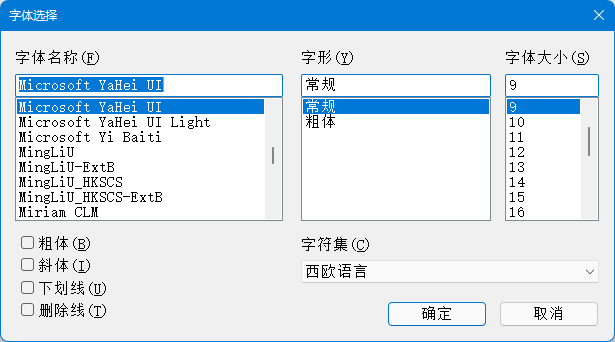
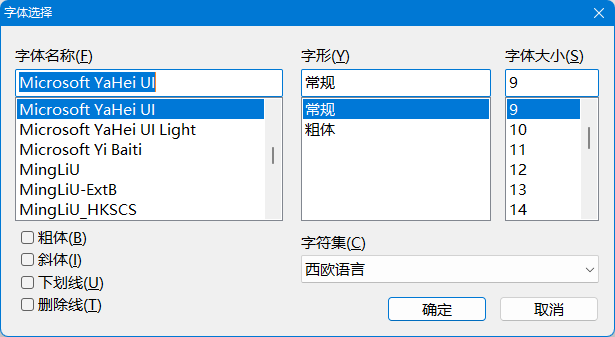
Update help files.

diff --git a/help/ja-jp/contents/03.html b/help/ja-jp/contents/03.html
@@ -21,6 +21,14 @@ The sources for noMeiryoUI are distributed under the MIT open source license
 <h1>3.製作履歴</h1>
 
 <div class="chapter">
+<h2>2022/06/26 Version 3.0.0.1</h2>
+<ul>
+<li>Luke Luo氏による簡体字中国語の訳と表示フォント設定の更新を取り込みました。</li>
+</ul>
+</div>
+<hr>
+
+<div class="chapter">
 <h2>2022/02/13 Version 3.0.0</h2>
 <ul>
 <li>フォントサイズをポイント数でフォント設定ファイルに保存するようにしました。<br>

diff --git a/help/en-us/contents/03.html b/help/en-us/contents/03.html
@@ -21,6 +21,15 @@ The sources for noMeiryoUI are distributed under the MIT open source license
 <h1>3.History</h1>
 
 <div class="chapter">
+<h2>06/26/2022 Version 3.0.0.1</h2>
+<ul>
+<li>Improved Simplified Chinese translations and fonts by Luke Luo.</li>
+</ul>
+</div>
+
+<hr>
+
+<div class="chapter">
 <h2>02/13/2022 Version 3.0.0</h2>
 <ul>
 <li>Save font size by points in font setting file.<br>

diff --git a/help/zh-cn/contents/03.html b/help/zh-cn/contents/03.html
@@ -21,6 +21,12 @@ The sources for noMeiryoUI are distributed under the MIT open source license
 <h1>3.更新记录</h1>
 
 <div class="chapter">
+    <h2>2022/06/26 版本 3.0.0.1</h2>
+</div>
+
+<hr>
+
+<div class="chapter">
     <h2>2022/02/13 版本 3.0.0</h2>
     <ul>
     <li>现在，配置文件中的字体大小以 pt 为单位。<br>

diff --git a/help/ko-kr/contents/03.html b/help/ko-kr/contents/03.html
@@ -21,6 +21,11 @@ The sources for noMeiryoUI are distributed under the MIT open source license
 <h1>3. 제작 이력</h1>
 
 <div class="chapter">
+<h2>2022/06/26 Version 3.0.0.1</h2>
+</div>
+<hr>
+
+<div class="chapter">
 <h2>2022/02/13 Version 3.0.0</h2>
 </div>
 <hr>

diff --git a/help/pt-br/contents/03.html b/help/pt-br/contents/03.html
@@ -21,6 +21,12 @@ The sources for noMeiryoUI are distributed under the MIT open source license
 <h1>3.Histórico</h1>
 
 <div class="chapter">
+<h2>26/06/2022 Versão 3.0.0.1</h2>
+</div>
+
+<hr>
+
+<div class="chapter">
 <h2>13/02/2022 Versão 3.0.0</h2>
 </div>
 
